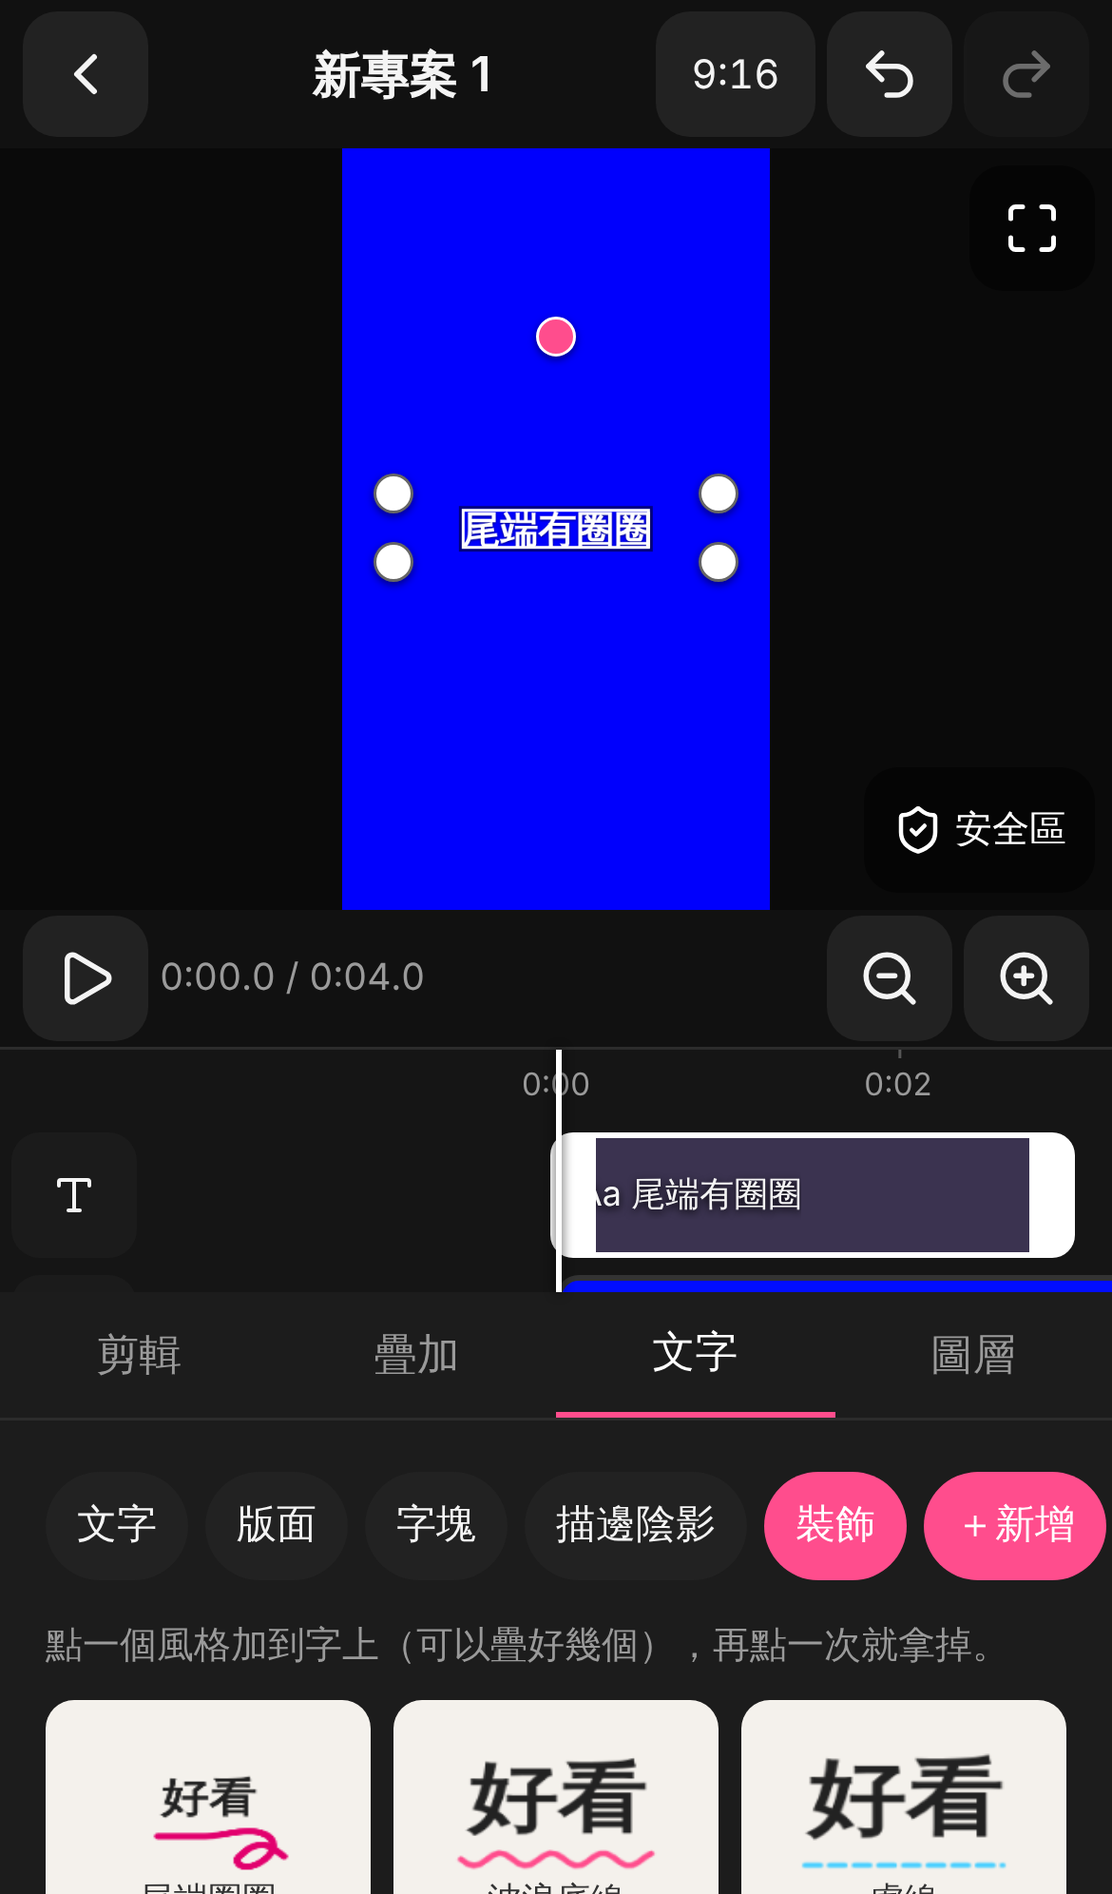
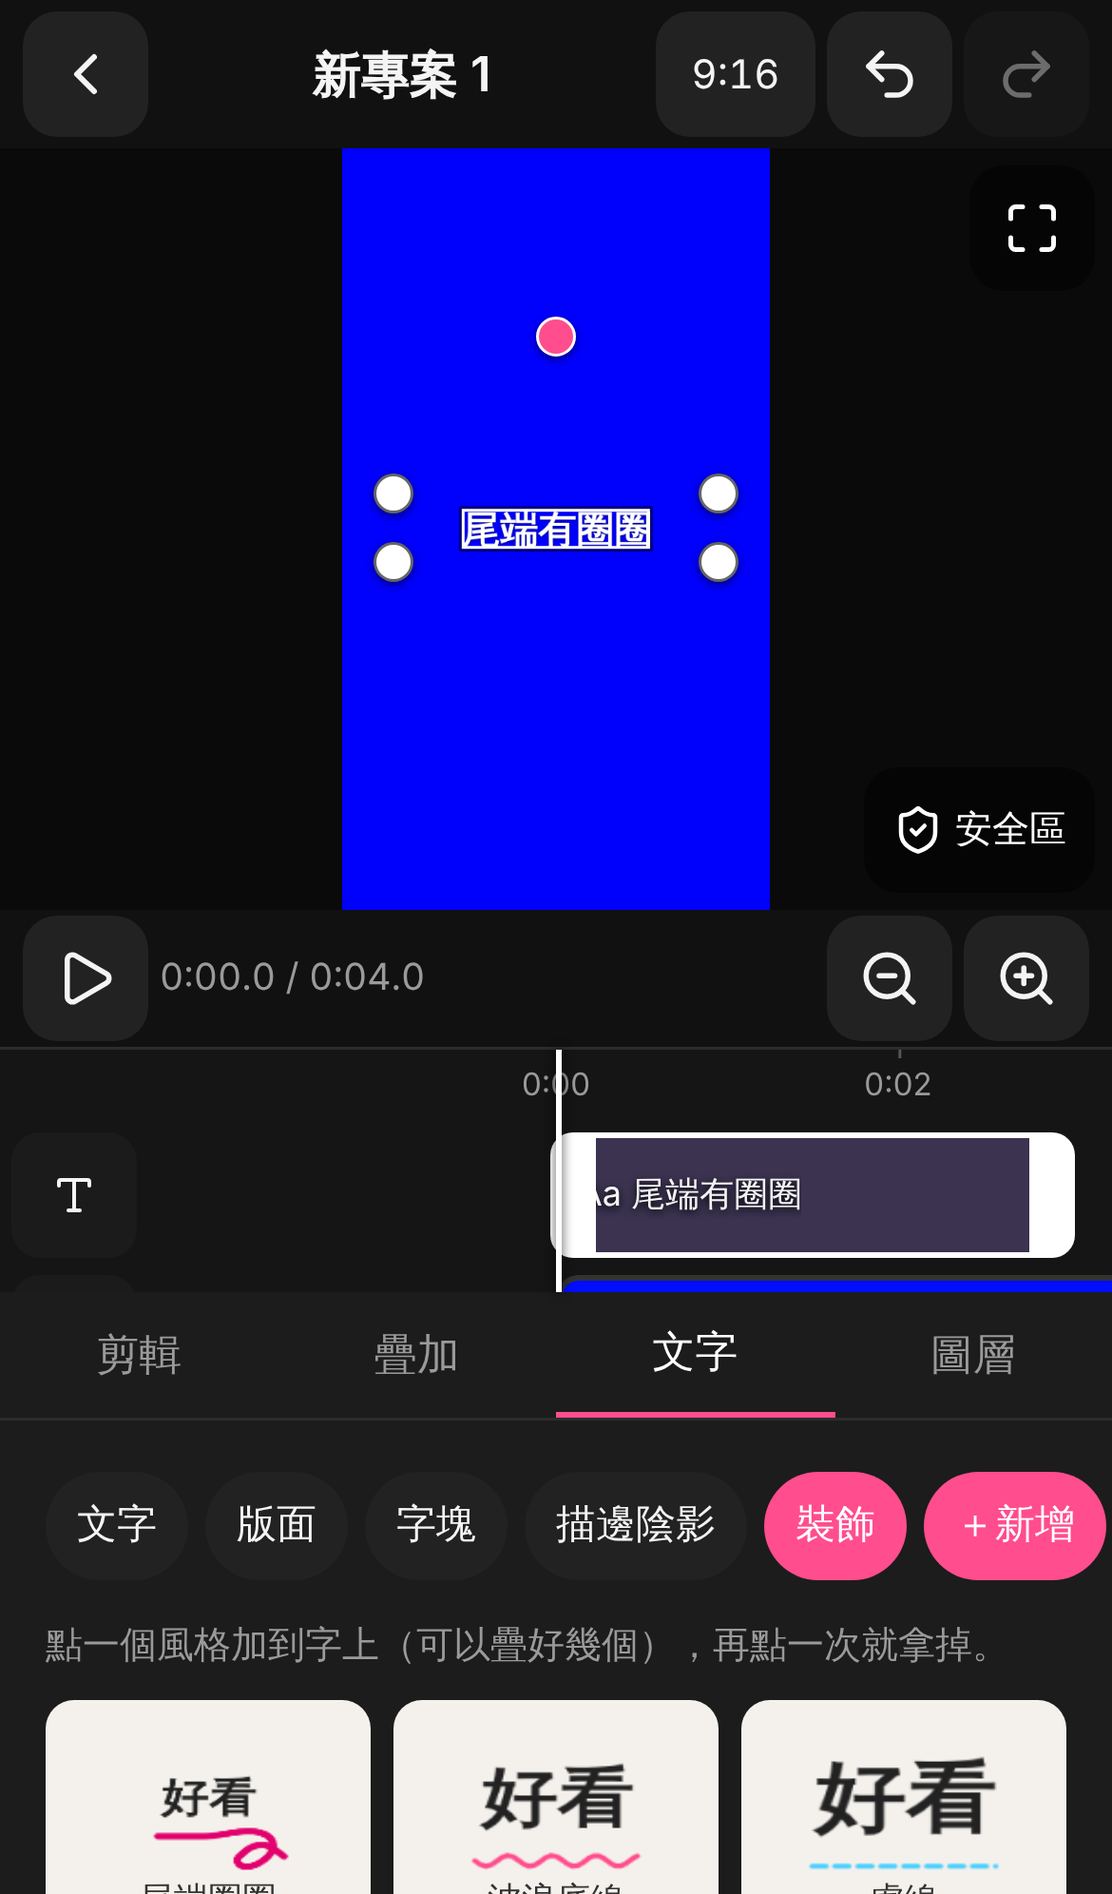
Decorations: gap (distance from text) and scale; underlines grow downward
Claude-Session: https://claude.ai/code/session_019agY7otd5feanTroznJ55n

Changed region(s): [[0.7077, 0.9026, 0.8923, 0.996], [0.4, 0.9026, 0.5846, 0.996]]

diff --git a/src/engine/decorations.ts b/src/engine/decorations.ts
@@ -17,21 +17,46 @@ export type Op = {
   alpha?: number;
 };
 
-export const DECORATION_KINDS: { kind: DecorationKind; label: string; width: number; color: string }[] = [
-  { kind: 'tail-loop', label: '尾端圈圈', width: 0.15, color: '#E2006E' },
-  { kind: 'wave-underline', label: '波浪底線', width: 0.07, color: '#ff4d8d' },
-  { kind: 'dashed-underline', label: '虛線', width: 0.06, color: '#4dd0ff' },
-  { kind: 'dotted-underline', label: '點點線', width: 0.09, color: '#ffd23f' },
-  { kind: 'double-line', label: '雙底線', width: 0.05, color: '#ff4d8d' },
-  { kind: 'marker', label: '螢光筆', width: 1, color: '#ffe14d' },
-  { kind: 'scribble-circle', label: '手繪圈住', width: 0.07, color: '#ff4d8d' },
-  { kind: 'arrow-curve', label: '彎箭頭', width: 0.07, color: '#ffd23f' },
-  { kind: 'sparkles', label: '星星', width: 1, color: '#ffd23f' },
-  { kind: 'hearts', label: '愛心', width: 1, color: '#ff4d8d' },
-  { kind: 'slashes', label: '斜線', width: 0.08, color: '#ffffff' },
-  { kind: 'check', label: '打勾', width: 0.12, color: '#7CFC6A' },
-  { kind: 'corner-brackets', label: '角括號', width: 0.06, color: '#ffffff' },
-];
+export type DecoKindDef = {
+  kind: DecorationKind;
+  label: string;
+  width: number;
+  color: string;
+  /** 有線寬可以調 */
+  hasWidth: boolean;
+  /** 有「大小」可以調 */
+  hasScale: boolean;
+  /** 距離滑桿的名稱（螢光筆是上下位置） */
+  gapLabel: string;
+};
+const BASE: Omit<DecoKindDef, 'kind' | 'label' | 'width' | 'color'> = {
+  hasWidth: true,
+  hasScale: false,
+  gapLabel: '與文字距離',
+};
+export const DECORATION_KINDS: DecoKindDef[] = (
+  [
+    { kind: 'tail-loop', label: '尾端圈圈', width: 0.15, color: '#E2006E' },
+    { kind: 'wave-underline', label: '波浪底線', width: 0.07, color: '#ff4d8d' },
+    { kind: 'dashed-underline', label: '虛線', width: 0.06, color: '#4dd0ff' },
+    { kind: 'dotted-underline', label: '點點線', width: 0.09, color: '#ffd23f' },
+    { kind: 'double-line', label: '雙底線', width: 0.05, color: '#ff4d8d' },
+    { kind: 'marker', label: '螢光筆', width: 1, color: '#ffe14d' },
+    { kind: 'scribble-circle', label: '手繪圈住', width: 0.07, color: '#ff4d8d' },
+    { kind: 'arrow-curve', label: '彎箭頭', width: 0.07, color: '#ffd23f' },
+    { kind: 'sparkles', label: '星星', width: 1, color: '#ffd23f' },
+    { kind: 'hearts', label: '愛心', width: 1, color: '#ff4d8d' },
+    { kind: 'slashes', label: '斜線', width: 0.08, color: '#ffffff' },
+    { kind: 'check', label: '打勾', width: 0.12, color: '#7CFC6A' },
+    { kind: 'corner-brackets', label: '角括號', width: 0.06, color: '#ffffff' },
+  ] as Pick<DecoKindDef, 'kind' | 'label' | 'width' | 'color'>[]
+).map((k) => ({
+  ...BASE,
+  ...k,
+  ...(k.kind === 'marker' ? { hasWidth: false, gapLabel: '上下位置' } : {}),
+  ...(k.kind === 'sparkles' || k.kind === 'hearts' ? { hasWidth: false, hasScale: true } : {}),
+  ...(k.kind === 'check' || k.kind === 'arrow-curve' ? { hasScale: true } : {}),
+}));
 
 const M = (x: number, y: number): PathCmd => ['M', x, y];
 const L = (x: number, y: number): PathCmd => ['L', x, y];
@@ -140,12 +165,16 @@ export function decorationOps(d: Decoration, ink: Rect): Op[] {
   const b = y + h;
   const cy = y + h / 2;
   const lw = Math.max(d.width * h, 1);
+  const gap = (d.gap ?? 0) * h; // 與文字的距離（px）：往外推開
+  const sc = d.scale ?? 1; // 大小倍數（星星、愛心、打勾、箭頭）
+  // 底線類：線的「上緣」離字底 0.32 字高 + gap；線變粗時往下長，不會往上碰到字
+  const under = (extra = 0) => b + h * 0.32 + gap + lw / 2 + extra;
   switch (d.kind) {
     case 'tail-loop':
-      return tailLoop(ink, lw);
+      return tailLoop({ ...ink, y: ink.y + gap }, lw); // 整條往下移 gap
     case 'wave-underline': {
-      const y0 = b + h * 0.28;
       const amp = h * 0.08;
+      const y0 = under(amp);
       const wl = h * 0.55;
       const x0 = x - h * 0.05;
       const x1 = r + h * 0.05;
@@ -159,25 +188,18 @@ export function decorationOps(d: Decoration, ink: Rect): Op[] {
       return [{ type: 'stroke', cmds, width: lw }];
     }
     case 'dashed-underline':
-      return [
-        {
-          type: 'stroke',
-          cmds: line(x, b + h * 0.28, r, b + h * 0.28),
-          width: lw,
-          dash: [lw * 2.4, lw * 1.6],
-        },
-      ];
+      return [{ type: 'stroke', cmds: line(x, under(), r, under()), width: lw, dash: [lw * 2.4, lw * 1.6] }];
     case 'dotted-underline':
-      return [{ type: 'stroke', cmds: line(x, b + h * 0.28, r, b + h * 0.28), width: lw, dash: [0, lw * 2] }];
+      return [{ type: 'stroke', cmds: line(x, under(), r, under()), width: lw, dash: [0, lw * 2] }];
     case 'double-line':
       return [
-        { type: 'stroke', cmds: line(x, b + h * 0.22, r, b + h * 0.22), width: lw },
-        { type: 'stroke', cmds: line(x, b + h * 0.22 + lw * 2.4, r, b + h * 0.22 + lw * 2.4), width: lw },
+        { type: 'stroke', cmds: line(x, under(), r, under()), width: lw },
+        { type: 'stroke', cmds: line(x, under(lw * 2.4), r, under(lw * 2.4)), width: lw },
       ];
     case 'marker': {
-      // 斜、不規則邊的半透明色塊，畫在字後面
-      const t = y + h * 0.4;
-      const bt = b + h * 0.06;
+      // 斜、不規則邊的半透明色塊，畫在字後面；gap＝上下位置（正＝往下、負＝往上）
+      const t = y + h * 0.4 + gap;
+      const bt = b + h * 0.06 + gap;
       return [
         {
           type: 'fill',
@@ -194,8 +216,8 @@ export function decorationOps(d: Decoration, ink: Rect): Op[] {
     }
     case 'scribble-circle': {
       // 橢圓、頭尾不閉合、稍微超出；半徑慢慢變大（螺旋），像手繪
-      const rx = w / 2 + h * 0.55;
-      const ry = h * 0.78;
+      const rx = w / 2 + h * 0.55 + gap;
+      const ry = h * 0.78 + gap;
       const cx = x + w / 2;
       const cmds: PathCmd[] = [];
       const steps = 56;
@@ -212,51 +234,63 @@ export function decorationOps(d: Decoration, ink: Rect): Op[] {
       return [{ type: 'stroke', cmds, width: lw }];
     }
     case 'arrow-curve': {
-      const sx = r + h * 1.3;
-      const sy = y - h * 0.5;
-      const ex = r + h * 0.3;
+      const ex = r + h * 0.3 + gap;
       const ey = cy + h * 0.1;
-      const c2x = r + h * 1.4;
-      const c2y = cy + h * 0.5;
+      const sx = ex + h * 1.0 * sc;
+      const sy = ey - h * 1.1 * sc;
+      const c2x = ex + h * 1.1 * sc;
+      const c2y = ey + h * 0.4 * sc;
       const ang = Math.atan2(ey - c2y, ex - c2x);
-      const hl = h * 0.35;
+      const hl = h * 0.35 * sc;
       const head = (da: number): PathCmd[] =>
         line(ex, ey, ex - Math.cos(ang + da) * hl, ey - Math.sin(ang + da) * hl);
       return [
-        { type: 'stroke', cmds: [M(sx, sy), C(sx + h * 0.2, sy + h * 0.3, c2x, c2y, ex, ey)], width: lw },
+        {
+          type: 'stroke',
+          cmds: [M(sx, sy), C(sx + h * 0.2 * sc, sy + h * 0.3 * sc, c2x, c2y, ex, ey)],
+          width: lw,
+        },
         { type: 'stroke', cmds: [...head(0.5), ...head(-0.5)], width: lw },
       ];
     }
     case 'sparkles':
       return [
-        { type: 'fill', cmds: star(r + h * 0.15, y - h * 0.15, h * 0.4) },
-        { type: 'fill', cmds: star(x - h * 0.25, y + h * 0.15, h * 0.26) },
-        { type: 'fill', cmds: star(r + h * 0.45, b - h * 0.1, h * 0.22) },
+        { type: 'fill', cmds: star(r + h * 0.15 + gap, y - h * 0.15 - gap, h * 0.4 * sc) },
+        { type: 'fill', cmds: star(x - h * 0.25 - gap, y + h * 0.15, h * 0.26 * sc) },
+        { type: 'fill', cmds: star(r + h * 0.45 + gap, b - h * 0.1 + gap * 0.5, h * 0.22 * sc) },
       ];
     case 'hearts':
       return [
-        { type: 'fill', cmds: heart(x - h * 0.55, cy - h * 0.1, h * 0.28) },
-        { type: 'fill', cmds: heart(r + h * 0.55, cy + h * 0.1, h * 0.28) },
+        { type: 'fill', cmds: heart(x - (h * 0.55 * sc + gap), cy - h * 0.1, h * 0.28 * sc) },
+        { type: 'fill', cmds: heart(r + (h * 0.55 * sc + gap), cy + h * 0.1, h * 0.28 * sc) },
       ];
     case 'slashes':
       return [
-        { type: 'stroke', cmds: line(x - h * 0.7, y - h * 0.05, x - h * 0.3, b + h * 0.05), width: lw },
-        { type: 'stroke', cmds: line(r + h * 0.3, b + h * 0.05, r + h * 0.7, y - h * 0.05), width: lw },
-      ];
-    case 'check':
-      return [
         {
           type: 'stroke',
-          cmds: [
-            M(x - h * 1.05, cy + h * 0.02),
-            L(x - h * 0.75, cy + h * 0.32),
-            L(x - h * 0.25, cy - h * 0.38),
-          ],
+          cmds: line(x - h * 0.7 - gap, y - h * 0.05, x - h * 0.3 - gap, b + h * 0.05),
+          width: lw,
+        },
+        {
+          type: 'stroke',
+          cmds: line(r + h * 0.3 + gap, b + h * 0.05, r + h * 0.7 + gap, y - h * 0.05),
           width: lw,
         },
       ];
+    case 'check': {
+      // 以勾的右上端為錨點，往左下畫；scale 放大整個勾，gap 往左推開
+      const ax = x - h * 0.25 - gap;
+      const ay = cy - h * 0.38;
+      return [
+        {
+          type: 'stroke',
+          cmds: [M(ax - h * 0.8 * sc, ay + h * 0.4 * sc), L(ax - h * 0.5 * sc, ay + h * 0.7 * sc), L(ax, ay)],
+          width: lw,
+        },
+      ];
+    }
     case 'corner-brackets': {
-      const m = h * 0.28;
+      const m = h * 0.28 + gap;
       const arm = h * 0.4;
       const [l, t, rr, bb] = [x - m, y - m, r + m, b + m];
       return [

diff --git a/src/engine/decorations.test.ts b/src/engine/decorations.test.ts
@@ -67,3 +67,93 @@ describe('其他', () => {
     expect(b / a).toBeCloseTo(2);
   });
 });
+
+describe('與文字的距離（gap）與大小（scale）', () => {
+  const ext = (
+    kind: (typeof DECORATION_KINDS)[number]['kind'],
+    over: Record<string, number> = {},
+    width = 0.06,
+  ) => {
+    const def = DECORATION_KINDS.find((k) => k.kind === kind)!;
+    return opsBounds(
+      decorationOps({ kind, color: '#f00', width: def.hasWidth ? width : def.width, ...over }, ink),
+    )!;
+  };
+
+  it('底線類：距離越大離字越遠', () => {
+    for (const k of [
+      'wave-underline',
+      'dashed-underline',
+      'dotted-underline',
+      'double-line',
+      'tail-loop',
+    ] as const) {
+      expect(ext(k, { gap: 0.5 }).t).toBeGreaterThan(ext(k, { gap: 0 }).t + ink.h * 0.45);
+    }
+  });
+  it('底線類：線從 5% 變粗到 25%，線的上緣不會往上碰到字（往下長）', () => {
+    for (const k of ['wave-underline', 'dashed-underline', 'dotted-underline', 'double-line'] as const) {
+      const thin = ext(k, {}, 0.05);
+      const thick = ext(k, {}, 0.25);
+      expect(Math.abs(thick.t - thin.t)).toBeLessThan(ink.h * 0.02);
+      expect(thick.t).toBeGreaterThan(ink.y + ink.h); // 永遠在字下方
+      expect(thick.b).toBeGreaterThan(thin.b); // 往下長
+    }
+  });
+  it('預設值下，底線離字底至少 0.3 倍字高（使用者回報太貼近）', () => {
+    for (const k of ['wave-underline', 'dashed-underline', 'dotted-underline', 'double-line'] as const) {
+      expect(ext(k, {}, 0.06).t - (ink.y + ink.h)).toBeGreaterThan(ink.h * 0.28);
+    }
+  });
+  it('負的距離可以靠近字（最多 −0.3）', () => {
+    expect(ext('dashed-underline', { gap: -0.3 }).t).toBeLessThan(ext('dashed-underline', { gap: 0 }).t);
+  });
+  it('包圍類：往外擴', () => {
+    for (const k of ['scribble-circle', 'corner-brackets'] as const) {
+      const a = ext(k, { gap: 0 });
+      const b = ext(k, { gap: 0.4 });
+      expect(b.l).toBeLessThan(a.l - ink.h * 0.3);
+      expect(b.r).toBeGreaterThan(a.r + ink.h * 0.3);
+      expect(b.t).toBeLessThan(a.t - ink.h * 0.3);
+      expect(b.b).toBeGreaterThan(a.b + ink.h * 0.3);
+    }
+  });
+  it('兩側類：往左右推開', () => {
+    for (const k of ['hearts', 'slashes', 'sparkles'] as const) {
+      const a = ext(k, { gap: 0 });
+      const b = ext(k, { gap: 0.5 });
+      expect(b.r - b.l).toBeGreaterThan(a.r - a.l + ink.h * 0.5);
+    }
+    // 打勾、彎箭頭：只往一邊推
+    expect(ext('check', { gap: 0.5 }).r).toBeLessThan(ext('check', { gap: 0 }).r - ink.h * 0.4);
+    expect(ext('arrow-curve', { gap: 0.5 }).l).toBeGreaterThan(
+      ext('arrow-curve', { gap: 0 }).l + ink.h * 0.4,
+    );
+  });
+  it('螢光筆：距離＝上下位置', () => {
+    expect(ext('marker', { gap: 0.3 }).t).toBeGreaterThan(ext('marker', { gap: 0 }).t + ink.h * 0.25);
+  });
+  it('大小：星星、愛心、打勾、彎箭頭變大；線寬不受大小影響', () => {
+    for (const k of ['sparkles', 'hearts', 'check', 'arrow-curve'] as const) {
+      const small = ext(k, { scale: 0.5 });
+      const big = ext(k, { scale: 2 });
+      expect(big.r - big.l).toBeGreaterThan(small.r - small.l);
+      expect(big.b - big.t).toBeGreaterThanOrEqual(small.b - small.t);
+      // 面積變大（文字本身的寬度算在裡面，所以不用太嚴格的倍數）
+      expect((big.r - big.l) * (big.b - big.t)).toBeGreaterThan(
+        (small.r - small.l) * (small.b - small.t) * 1.1,
+      );
+    }
+    const w = (scale: number) =>
+      decorationOps({ kind: 'check', color: '#f00', width: 0.1, scale }, ink)[0]!.width;
+    expect(w(0.5)).toBe(w(2));
+  });
+  it('每種裝飾的調整項目標示正確（有粗細／有大小／距離名稱）', () => {
+    const by = Object.fromEntries(DECORATION_KINDS.map((k) => [k.kind, k]));
+    expect(by['marker']!.hasWidth).toBe(false);
+    expect(by['marker']!.gapLabel).toBe('上下位置');
+    expect(by['sparkles']).toMatchObject({ hasWidth: false, hasScale: true });
+    expect(by['check']).toMatchObject({ hasWidth: true, hasScale: true });
+    expect(by['tail-loop']).toMatchObject({ hasWidth: true, hasScale: false, gapLabel: '與文字距離' });
+  });
+});

diff --git a/src/app/editor/TextPanel.tsx b/src/app/editor/TextPanel.tsx
@@ -495,7 +495,7 @@ export function TextPanel({
                   label={`${def.label}顏色`}
                   onPick={(col) => edit((c) => void (c.decorations![i]!.color = col))}
                 />
-                {d.kind !== 'marker' && d.kind !== 'sparkles' && d.kind !== 'hearts' && (
+                {def.hasWidth && (
                   <Slider
                     label={`${def.label}粗細`}
                     value={Math.round(d.width * 100)}
@@ -504,6 +504,26 @@ export function TextPanel({
                     step={1}
                     format={(v) => `${v}%`}
                     onChange={(v) => edit((c) => void (c.decorations![i]!.width = v / 100), `deco${i}`)}
+                  />
+                )}
+                <Slider
+                  label={`${def.label}${def.gapLabel}`}
+                  value={Math.round((d.gap ?? 0) * 100)}
+                  min={-30}
+                  max={100}
+                  step={5}
+                  format={(v) => `${v}%`}
+                  onChange={(v) => edit((c) => void (c.decorations![i]!.gap = v / 100), `decogap${i}`)}
+                />
+                {def.hasScale && (
+                  <Slider
+                    label={`${def.label}大小`}
+                    value={Math.round((d.scale ?? 1) * 100)}
+                    min={50}
+                    max={200}
+                    step={5}
+                    format={(v) => `${v}%`}
+                    onChange={(v) => edit((c) => void (c.decorations![i]!.scale = v / 100), `decosc${i}`)}
                   />
                 )}
               </div>

diff --git a/src/model/types.ts b/src/model/types.ts
@@ -78,7 +78,15 @@ export type DecorationKind =
   | 'check'
   | 'corner-brackets';
 /** 字卡裝飾。width：線寬，佔文字墨跡高度的比例（星星、愛心、螢光筆不用） */
-export type Decoration = { kind: DecorationKind; color: string; width: number };
+export type Decoration = {
+  kind: DecorationKind;
+  color: string;
+  width: number;
+  /** 與文字的距離，佔字高的比例（−0.3 ~ 1.0，預設 0）；螢光筆是上下位置 */
+  gap?: number;
+  /** 大小倍數（0.5 ~ 2，預設 1）：星星、愛心、打勾、彎箭頭 */
+  scale?: number;
+};
 export type BoxShape =
   | 'rect'
   | 'roundRect'

diff --git a/docs/PROGRESS.md b/docs/PROGRESS.md
@@ -6,7 +6,7 @@
 - **日期**：2026-11-11
 - **分支**：PR #3（實測修正 A/B/C/D＋Phase 3A 第 1–4 步前半）**已由使用者合併進 `main`**（2026-11-11，部署 run #21 啟動；上線網址 https://peiyulin0520.github.io/VideoClip/ 會更新成這版）。`claude/zen-tesla-v3brj5` 已用 `git merge --ff-only origin/main` 對齊 main，之後的新工作繼續在這個分支
 - **最後一個程式 commit**：見 `git log -1`（Phase 3A-4：圖形庫）
-- **測試**：234 個單元測試、53 個 e2e（iPhone 13 尺寸、Chromium）、lint、build 全過
+- **測試**：243 個單元測試、54 個 e2e（iPhone 13 尺寸、Chromium）、lint、build 全過
 - **階段**：Phase 0 ✅、1 ✅、2 ✅、3B ✅、實測修正 A/B/C/D ✅；**Phase 3A（字卡引擎）進行中：第 1 步（型別＋排版引擎）✅、第 2 步（字卡面板）✅、第 3 步（13 種裝飾＋風格縮圖選單）✅、第 4 步前半（33 種圖形當字塊／獨立圖形）✅；4 後半（貼圖 icon）未做**；Phase 4–7 未開始
 - **下一步**：照 `docs/plans/2026-11-11-iphone-feedback-2.md` 實作使用者第 2 次 iPhone 實測回報的修正，順序 **① 匯入失敗（P0）→ ② 預覽太小＋操作鈕 → ③ 顏色 → ④ 裝飾距離 → ⑤ 字塊形狀調整**。貼圖 icon、雲朵字等這批修完再做
 - **等使用者的事**
@@ -54,6 +54,11 @@
 - 2026-11-11 找到新字體來源 max32002/pop-gothic（大波浪圓體，含注音）→ 已加入手寫可愛包。問「能不能直接下載到我的 files 下載資料夾」→ 答：網頁在 iPhone 不能自動寫進「檔案」App 資料夾；官方字體存在瀏覽器裡，自己的字體用「匯入字體檔」從檔案 App 選
 
 ## 日誌（最新在最上面）
+- 2026-11-11 回報 2-④：裝飾距離與大小（分支 claude/zen-tesla-v3brj5，Sonnet）
+  - 做了什麼：`Decoration` 加選填 `gap`（與文字的距離，佔字高比例 −0.3~1.0）、`scale`（大小 0.5~2）。底線類（波浪、虛線、點點、雙底線）改成「線的**上緣**離字底 0.32 字高 ＋ gap」，**線變粗時往下長**，不會往上碰到字（使用者回報的問題）；尾端圈圈整條往下移 gap；手繪圈住、角括號往外擴；愛心、星星、斜線、打勾、彎箭頭往外側推開；螢光筆的距離改叫「上下位置」。星星、愛心、打勾、彎箭頭多一條「大小」。面板每個裝飾列：粗細（有線寬的才有）、與文字距離、大小（有的才有）。⚠ 預設的底線位置比以前遠（舊專案裡的底線會往下移一點，這是使用者要的）
+  - 動了哪些檔：src/engine/decorations.ts（＋test）、src/model/types.ts、src/app/editor/TextPanel.tsx、e2e/phase3a-deco.spec.ts
+  - 驗證：✅ 單元：每種裝飾 gap=0.5 離墨跡更遠；底線粗細 5%→25% 線的上緣 y 幾乎不變且永遠在字下方；預設值下底線離字底 ≥ 0.28 字高；包圍類四邊外擴、兩側類推開、打勾與彎箭頭單邊推開、螢光筆上下位置；大小變大而線寬不變；調整項目旗標。✅ e2e：拖距離／大小滑桿 → 資料與預覽改變；愛心有大小沒粗細、螢光筆叫「上下位置」；截圖 docs/screenshots/phase3a/deco-wave-thick.png、deco-wave-gap60.png；243 單元＋54 e2e 全過，連跑 2 次穩定  🟡 只在 Chromium
+  - 下一步：回報 2-⑤ 圖形可調整（雲朵凹槽、星形內徑、角圓滑、對話框尾巴位置）
 - 2026-11-11 回報 2-③：顏色選擇器（分支 claude/zen-tesla-v3brj5，Sonnet）
   - 做了什麼：新 `src/ui/ColorPicker.tsx`，文字、字塊、字塊外框、描邊兩層、裝飾**全部**換成它：「最近用過」（最多 8 色，存在這台裝置 localStorage `vc-recent-colors`，最新在最前面）→ 基本 8 色（裝飾會把自己的預設色放最前面）→「更多顏色」展開粉嫩／莫蘭迪／螢光各 8 色（共 **32 色**）→「自訂顏色」（`<input type=color>`，iPhone 上會跳系統取色盤）＋色碼輸入（`#RRGGBB`，沒輸入完或不合法不套用）。色票 40px。資料格式仍是色碼字串，舊專案不用轉換
   - 動了哪些檔：src/ui/{ColorPicker,ColorPicker.test}.ts(x)、src/app/editor/TextPanel.tsx、styles.css、e2e/fix-colors.spec.ts
